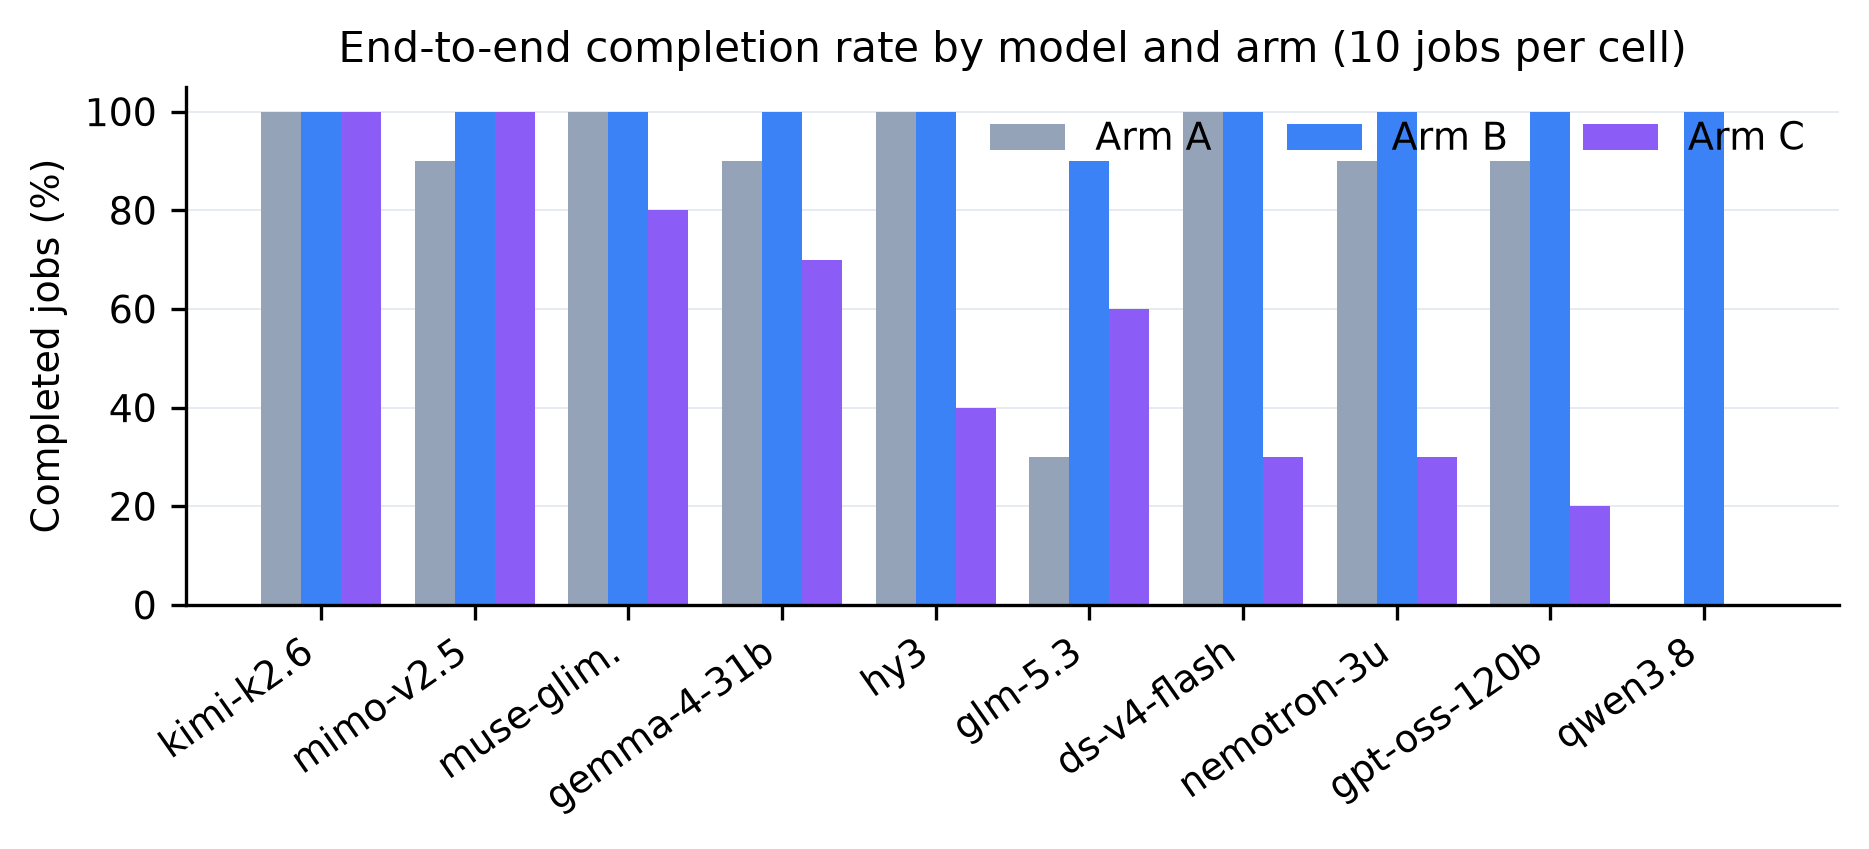
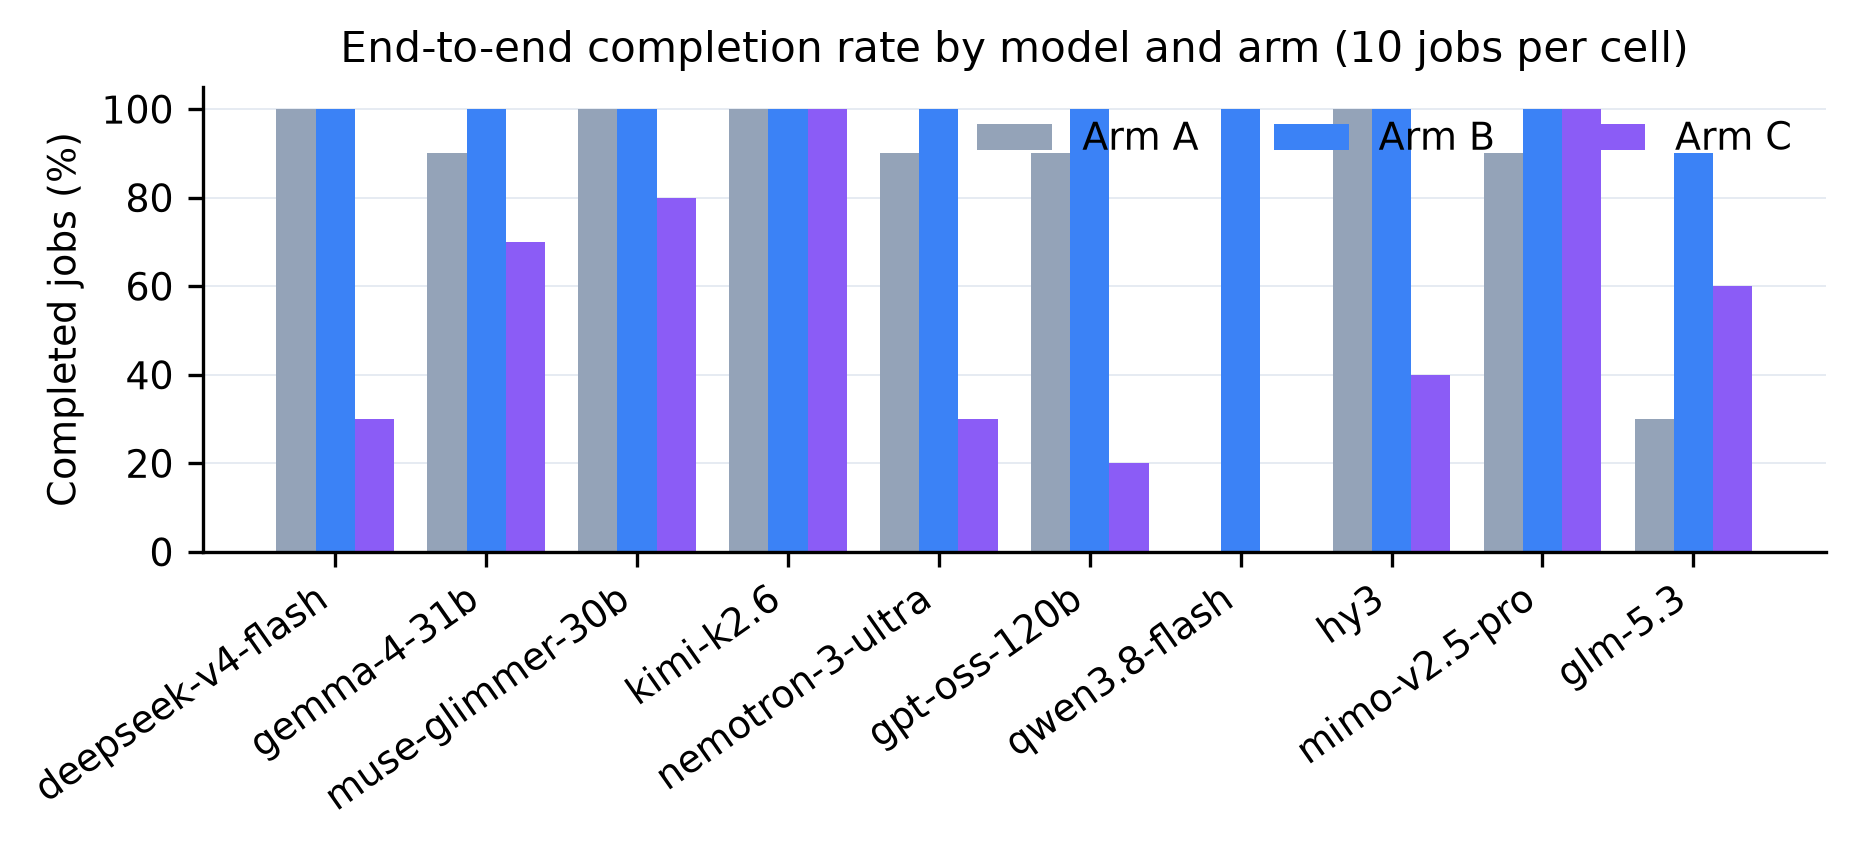
figures: schema-driven generation; true token accounting; unit fix
- model roster + labels from manifest/model_metadata.json (no hardcoded IDs)
- completion mapped via manifest job_seq join (arm-consistency checked)
- latency: all arms in seconds (total_execution_time verified seconds)
- tokens: correct per-emitter fields (A/B prompt/completion_tokens;
  C normalized input/output_tokens) — earlier figure_data summed the
  A/B cache subset by mistake
- derived cost from tokens x backend flat rates; jobs.cost documented
  as undercounting (orchestrator usage misses streaming tool calls)
- gitignore live run log

diff --git a/tools/figures.py b/tools/figures.py
@@ -1,15 +1,17 @@
 #!/usr/bin/env python3
-"""Generate thesis figures from the frozen bench-20260913 data.
+"""Generate thesis figures from frozen benchmark artifacts. Schema-driven, no hardcoded
+model IDs: the model list and display labels come from manifest/model_metadata.json and
+the observed arm data. Costs are derived from tokens x the benchmark's flat pricing rates
+(the same rates the backend used for jobs.cost), because the Nano GPT subscription API
+does not report per-call cost. All sources are frozen; no live state.
 
-Outputs (300 DPI PNG, thesis-ready):
-  figures/fig5_1_arm_model_completion.png  — grouped bars: completion % by model × arm
-  figures/fig5_2_latency.png               — latency comparison across arms
-
-Data sources: traces/outcomes/*.json (A/B), data/conceptcast.db (C),
-traces/*.jsonl (per-call latency). All frozen artifacts; no live state.
+Outputs (300 DPI PNG + machine-readable figure_data.json):
+  figures/fig5_1_arm_model_completion.png
+  figures/fig5_2_latency.png
 """
 from __future__ import annotations
 
+import csv
 import json
 import sqlite3
 import statistics
@@ -25,64 +27,120 @@ import numpy as np  # noqa: E402
 REPO = Path(__file__).resolve().parent.parent
 FIG = REPO / "figures"
 OUT = REPO / "reports"
-MODELS = [
-    "moonshotai/kimi-k2.6", "xiaomi/mimo-v2.5-pro", "meta/muse-glimmer-30b",
-    "google/gemma-4-31b-it", "tencent/hy3", "z-ai/glm-5.3",
-    "deepseek/deepseek-v4-flash", "nvidia/nemotron-3-ultra-550b-a55b",
-    "openai/gpt-oss-120b", "qwen/qwen3.8-flash",
-]
-SHORT = {
-    "moonshotai/kimi-k2.6": "kimi-k2.6", "xiaomi/mimo-v2.5-pro": "mimo-v2.5",
-    "meta/muse-glimmer-30b": "muse-glim.", "google/gemma-4-31b-it": "gemma-4-31b",
-    "tencent/hy3": "hy3", "z-ai/glm-5.3": "glm-5.3",
-    "deepseek/deepseek-v4-flash": "ds-v4-flash",
-    "nvidia/nemotron-3-ultra-550b-a55b": "nemotron-3u",
-    "openai/gpt-oss-120b": "gpt-oss-120b", "qwen/qwen3.8-flash": "qwen3.8",
-}
+MANIFEST = REPO / "manifest" / "jobs.csv"
+METADATA = REPO / "manifest" / "model_metadata.json"
+TRACE_FILE = REPO / "traces" / "bench-20260913.jsonl"  # arms A/B (backend wrote C separately)
+
+# Backend pricing rates (infra/settings.py) — the same flat rates jobs.cost used.
+PRICING_INPUT_PER_1K = 0.005
+PRICING_OUTPUT_PER_1K = 0.015
 
 plt.rcParams.update({
     "font.size": 9, "axes.titlesize": 10, "axes.labelsize": 9,
     "figure.dpi": 300, "savefig.dpi": 300, "axes.spines.top": False,
     "axes.spines.right": False,
 })
-COLORS = {"A": "#94a3b8", "B": "#3b82f6", "C": "#8b5cf6"}
+ARM_COLORS = {"A": "#94a3b8", "B": "#3b82f6", "C": "#8b5cf6"}
 
 
-def load() -> tuple[dict, dict]:
-    outcomes = [json.load(p.open()) for p in (REPO / "traces" / "outcomes").glob("job-*.json")]
+def load_models() -> list[dict]:
+    """Model roster from the frozen metadata (id + short display label)."""
+    meta = json.load(METADATA.open())
+    return sorted(meta["models"], key=lambda m: m["id"])
+
+
+def short_label(meta: dict) -> str:
+    """Display label: metadata short field, fallback to the id after the slash."""
+    return meta.get("short") or meta["id"].split("/")[-1]
+
+
+def load_completion(models: list[dict]) -> dict[str, dict[str, int]]:
+    """Completed counts per (arm, model_id), recomputed from frozen artifacts."""
+    comp = {a: {m["id"]: 0 for m in models} for a in "ABC"}
+    ids = {m["id"] for m in models}
+
+    # Arms A/B: outcome files keyed by job_seq; map seq->model via the manifest.
+    seq_model = {}
+    with MANIFEST.open(newline="") as f:
+        for row in csv.DictReader(f):
+            if row["arm"] in ("A", "B"):
+                seq_model[int(row["job_seq"])] = (row["arm"], row["model"])
+    for p in (REPO / "traces" / "outcomes").glob("job-*.json"):
+        o = json.load(p.open())
+        key = seq_model.get(o["job_seq"])
+        if key and o["status"] == "completed" and o["arm"] == key[0] and key[1] in ids:
+            comp[o["arm"]][key[1]] += 1
+
+    # Arm C: the snapshotted database.
     db = sqlite3.connect(REPO / "data" / "conceptcast.db")
-    crows = db.execute(
-        "SELECT model_id, status, total_execution_time FROM jobs WHERE benchmark_arm='C'"
-    ).fetchall()
-    comp = {arm: {m: 0 for m in MODELS} for arm in ("A", "B", "C")}
-    for o in outcomes:
-        if o["status"] == "completed":
-            comp[o["arm"]][o["model"]] += 1
-    for m, st, _ in crows:
-        if st == "completed":
+    for m, st in db.execute(
+        "SELECT model_id, status FROM jobs WHERE benchmark_arm='C'"
+    ):
+        if st == "completed" and m in ids:
             comp["C"][m] += 1
-    # latency
-    lat = {"A": [], "B": [], "C": []}
-    for line in (REPO / "traces" / "bench-20260913.jsonl").open():
+    return comp
+
+
+def load_latency(models: list[dict]) -> dict[str, list[float]]:
+    """Latency in SECONDS. A/B: per-call latency_ms from traces. C: job wall-clock
+    total_execution_time (verified seconds against created->updated deltas)."""
+    lat: dict[str, list[float]] = {"A": [], "B": [], "C": []}
+    for line in TRACE_FILE.open():
         r = json.loads(line)
         if r.get("arm") in ("A", "B") and r.get("latency_ms"):
             lat[r["arm"]].append(r["latency_ms"] / 1000.0)
-    for m, t, st in db.execute(
-        "SELECT model_id, total_execution_time, status FROM jobs WHERE benchmark_arm='C' "
+    db = sqlite3.connect(REPO / "data" / "conceptcast.db")
+    for (t,) in db.execute(
+        "SELECT total_execution_time FROM jobs WHERE benchmark_arm='C' "
         "AND status='completed' AND total_execution_time IS NOT NULL"
     ):
-        lat["C"].append(t)  # total_execution_time is already seconds
-    return comp, lat
+        lat["C"].append(t)
+    return lat
 
 
-def fig1(comp) -> None:
+def load_tokens() -> dict[str, dict[str, int]]:
+    """True per-arm token totals. Schema note: the two emitters differ —
+    Arms A/B (monolithic runner) record raw OpenAI-style usage where the real totals are
+    prompt_tokens/completion_tokens (input_tokens there is only the cached subset);
+    Arm C (pydantic-ai emitter) records normalized input_tokens/output_tokens."""
+    tok = {a: {"input": 0, "output": 0} for a in "ABC"}
+    for line in TRACE_FILE.open():
+        r = json.loads(line)
+        a = r.get("arm")
+        if a in ("A", "B"):
+            tok[a]["input"] += r.get("prompt_tokens") or 0
+            tok[a]["output"] += r.get("completion_tokens") or 0
+    for p in (REPO / "traces").glob("bench-v2-*.jsonl"):
+        for line in p.open():
+            r = json.loads(line)
+            if r.get("arm") == "C":
+                tok["C"]["input"] += r.get("input_tokens") or 0
+                tok["C"]["output"] += r.get("output_tokens") or 0
+    return tok
+
+
+def load_cost() -> dict[str, float]:
+    """Derived cost per arm from true tokens x the backend's flat pricing rates.
+    (jobs.cost systematically undercounts — it accumulates only the orchestrator's
+    top-level agent.run() usage, not the streaming tool-iteration calls the traces
+    capture; the trace-derived figure is authoritative.)"""
+    tok = load_tokens()
+    return {
+        a: round(v["input"] / 1000 * PRICING_INPUT_PER_1K
+                 + v["output"] / 1000 * PRICING_OUTPUT_PER_1K, 2)
+        for a, v in tok.items()
+    }
+
+
+def fig1(comp, models) -> None:
     fig, ax = plt.subplots(figsize=(6.3, 2.9))
-    x = np.arange(len(MODELS))
+    labels = [short_label(m) for m in models]
+    x = np.arange(len(models))
     w = 0.26
     for i, arm in enumerate(("A", "B", "C")):
-        vals = [comp[arm][m] * 10 for m in MODELS]
-        ax.bar(x + (i - 1) * w, vals, w, label=f"Arm {arm}", color=COLORS[arm])
-    ax.set_xticks(x, [SHORT[m] for m in MODELS], rotation=35, ha="right")
+        vals = [comp[arm][m["id"]] * 10 for m in models]
+        ax.bar(x + (i - 1) * w, vals, w, label=f"Arm {arm}", color=ARM_COLORS[arm])
+    ax.set_xticks(x, labels, rotation=35, ha="right")
     ax.set_ylabel("Completed jobs (%)")
     ax.set_ylim(0, 105)
     ax.set_title("End-to-end completion rate by model and arm (10 jobs per cell)")
@@ -95,11 +153,12 @@ def fig1(comp) -> None:
 
 
 def fig2(lat) -> None:
-    """All latencies normalized to SECONDS (C job wall-time is minutes in the DB)."""
+    """All latencies in SECONDS on log scale (C job wall-time is minutes-scale but stored
+    in seconds; do not rescale — plot the stored unit directly)."""
     fig, (ax1, ax2) = plt.subplots(1, 2, figsize=(6.3, 2.7), gridspec_kw={"width_ratios": [1, 1.4]})
     arms = ["A", "B", "C"]
     medians = [statistics.median(lat[a]) for a in arms]
-    ax1.bar(arms, medians, color=[COLORS[a] for a in arms], width=0.55)
+    ax1.bar(arms, medians, color=[ARM_COLORS[a] for a in arms], width=0.55)
     ax1.set_yscale("log")
     for i, v in enumerate(medians):
         label = f"{v:.0f} s" if v < 120 else f"{v/60:.0f} min"
@@ -114,7 +173,7 @@ def fig2(lat) -> None:
         patch_artist=True, showfliers=False, medianprops={"color": "#0f172a"},
     )
     for patch, a in zip(bp["boxes"], arms):
-        patch.set_facecolor(COLORS[a]); patch.set_alpha(0.7)
+        patch.set_facecolor(ARM_COLORS[a]); patch.set_alpha(0.7)
     ax2.set_yscale("log")
     ax2.set_ylabel("Latency (s, log scale)")
     ax2.set_title("Latency distribution (outliers hidden)")
@@ -126,19 +185,28 @@ def fig2(lat) -> None:
 
 
 def main() -> None:
-    comp, lat = load()
+    models = load_models()
+    comp = load_completion(models)
+    lat = load_latency(models)
+    cost = load_cost()
+    tokens = load_tokens()
     FIG.mkdir(exist_ok=True)
-    fig1(comp)
+    fig1(comp, models)
     fig2(lat)
-    # machine-readable provenance
     stats = {
-        "completion_pct": {f"{a}|{m}": comp[a][m] * 10 for a in comp for m in comp[a]},
-        "latency": {
+        "completion_pct": {f"{a}|{m['id']}": comp[a][m["id"]] * 10 for a in comp for m in models},
+        "latency_seconds": {
             a: {"n": len(v), "median": statistics.median(v) if v else None,
                 "mean": statistics.mean(v) if v else None,
                 "p90": sorted(v)[int(len(v) * 0.9)] if v else None}
             for a, v in lat.items()
         },
+        "tokens_true": tokens,
+        "derived_cost_usd_flat_rates": cost,
+        "pricing_note": ("Flat backend rates ($0.005/1k in, $0.015/1k out) applied to true "
+                         "token totals; provider does not report per-call cost. jobs.cost "
+                         "undercounts (orchestrator usage accumulation misses streaming "
+                         "tool-iteration calls) — trace-derived figures are authoritative."),
     }
     (OUT / "figure_data.json").write_text(json.dumps(stats, indent=1) + "\n")
     print("figures →", FIG / "fig5_1_arm_model_completion.png")
